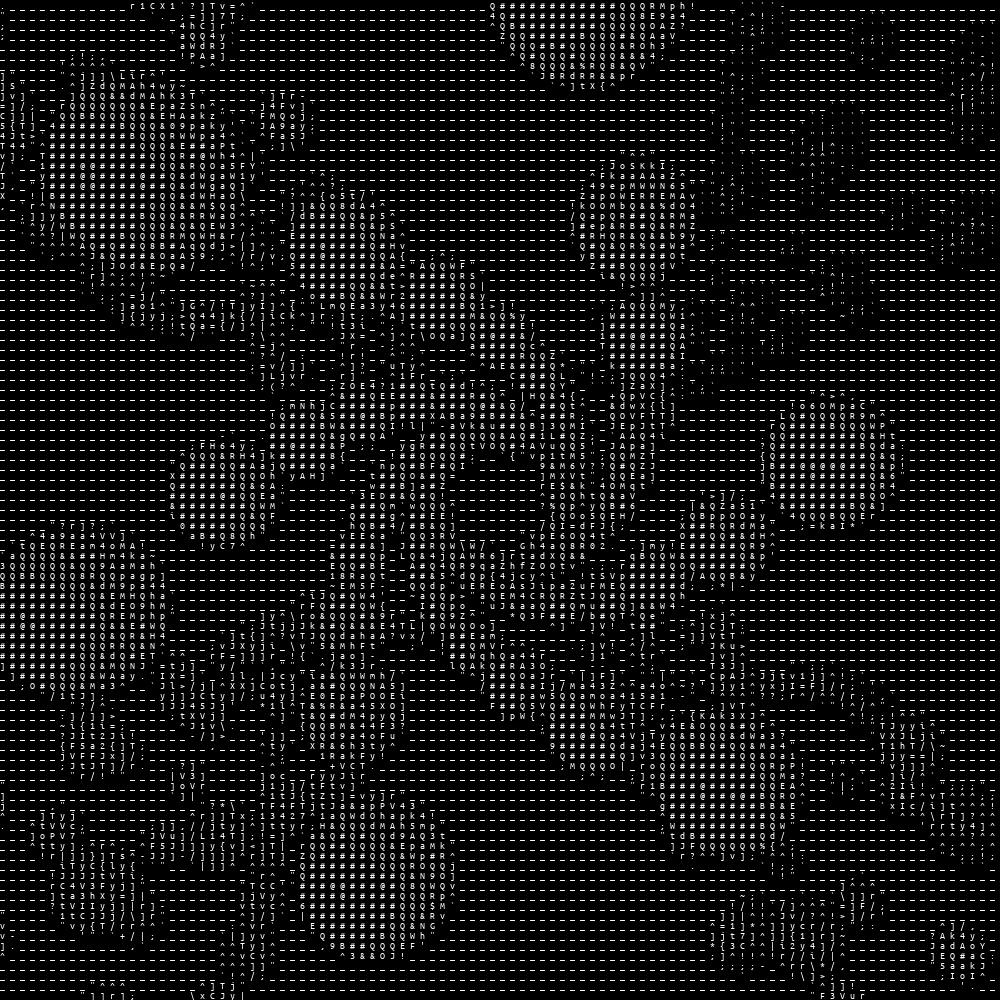
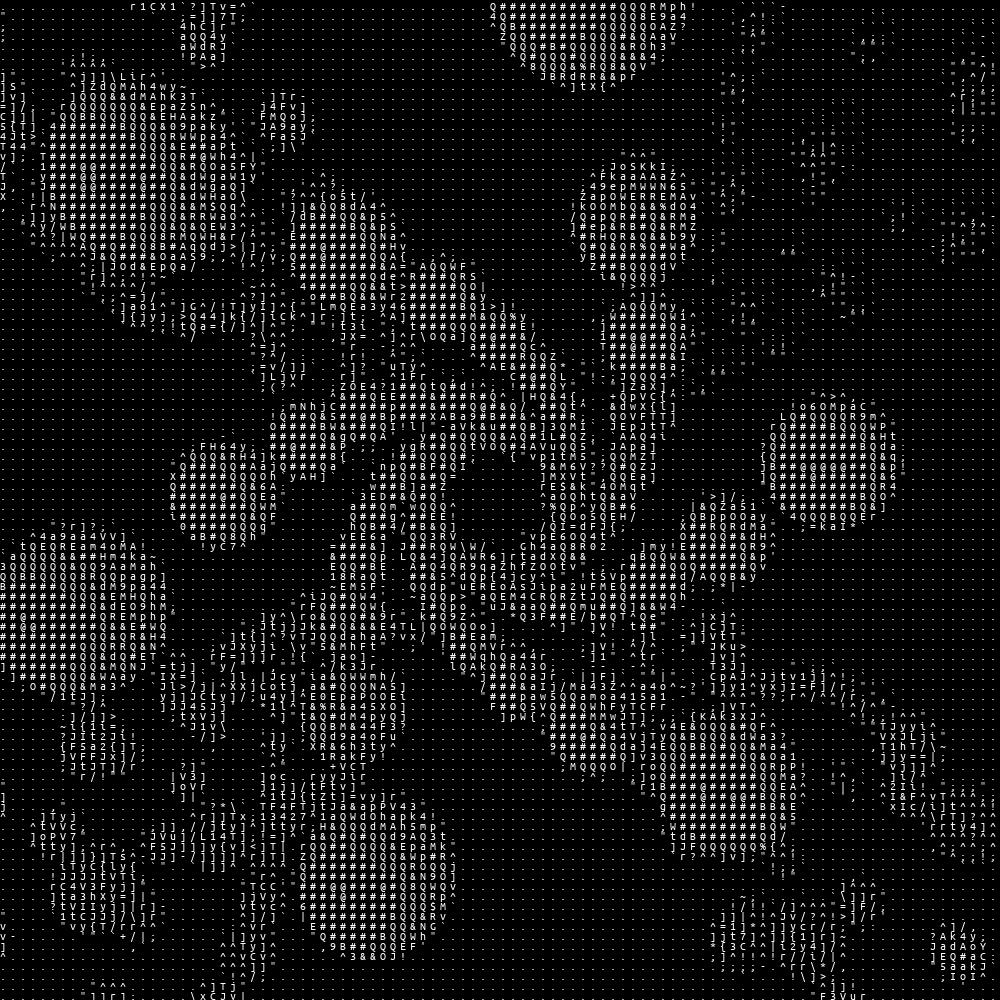
Improved the quality of the images by removing underscores from the characters. Underscores were bugged and flagged as if they had 0 brightness. Simply removing them will do. I also made the characters bigger by 2 pts, to fill up the space between the characters a bit more. This improves the resulti

diff --git a/image_ascii_filter.py b/image_ascii_filter.py
@@ -16,40 +16,42 @@ def find_best_fitting_char(avg_brights, char_brights, row_block, col_block):
     for char, bright in char_brights[::-1]:
         if bright <= value:
             return char
+    return char
 
 def main():
     parser = argparse.ArgumentParser(description='Convert an image into ASCII art.')
     parser.add_argument('image_filename', help="The filename of the image you want to convert.")
-    parser.add_argument('char_size', type=int, help="The size of the ASCII characters of the new image.")
+    parser.add_argument('box_size', type=int, help="The size of the boxes the ASCII characters will go in.")
     args = parser.parse_args()
 
     with open("character_brightnesses.data", "rb") as filehandle:
-        char_brightness = pickle.load(filehandle)
+        char_brightness = pickle.load(filehandle)[1:] # Manually removing underscore (_ is bugged -> brightness of 0)
         max_char_brightness = char_brightness[-1][1]
 
-    let_size = (args.char_size, args.char_size)
+    box_size = (args.box_size, args.box_size)
     
     with Image.open(args.image_filename).convert('L') as original_img:
         original_imgarr = np.array(original_img)
         shape = original_imgarr.shape
-        num_vertical = shape[0]//let_size[0]
-        num_horizontal = shape[1]//let_size[1]
+        num_vertical = shape[0]//box_size[0]
+        num_horizontal = shape[1]//box_size[1]
         avg_brightness = np.zeros((num_vertical, num_horizontal))
         for row_block, col_block in product(range(num_vertical), range(num_horizontal)):
-            r, c = row_block * let_size[0], col_block * let_size[1]
+            r, c = row_block * box_size[0], col_block * box_size[1]
             avg_brightness[row_block, col_block] = average_brightness(
-                original_imgarr[r:r+let_size[0], c:c+let_size[1]], 
-                let_size
+                original_imgarr[r:r+box_size[0], c:c+box_size[1]], 
+                box_size
             ) / (255 / max_char_brightness)
 
     with Image.new('L', original_img.size) as ascii_img:
         draw = ImageDraw.Draw(ascii_img)
-        monospace_font = ImageFont.truetype("UbuntuMono-R.ttf", args.char_size)
+        monospace_font = ImageFont.truetype("UbuntuMono-R.ttf", args.box_size+2)
         for row_block, col_block in product(range(num_vertical), range(num_horizontal)):
             char = find_best_fitting_char(avg_brightness, char_brightness, row_block, col_block)
-            draw.text((col_block*let_size[1], row_block*let_size[0]), char, 255, font=monospace_font)
+            if char:
+                draw.text((col_block*box_size[1], row_block*box_size[0]), char, 255, font=monospace_font)
 
-        new_img_filename = args.image_filename.split(".")[0] + f"_ascii_{args.char_size}.jpg"
+        new_img_filename = args.image_filename.split(".")[0] + f"_ascii_{args.box_size}.jpg"
         ascii_img.save(new_img_filename, "JPEG")
 
 if __name__ == "__main__":
